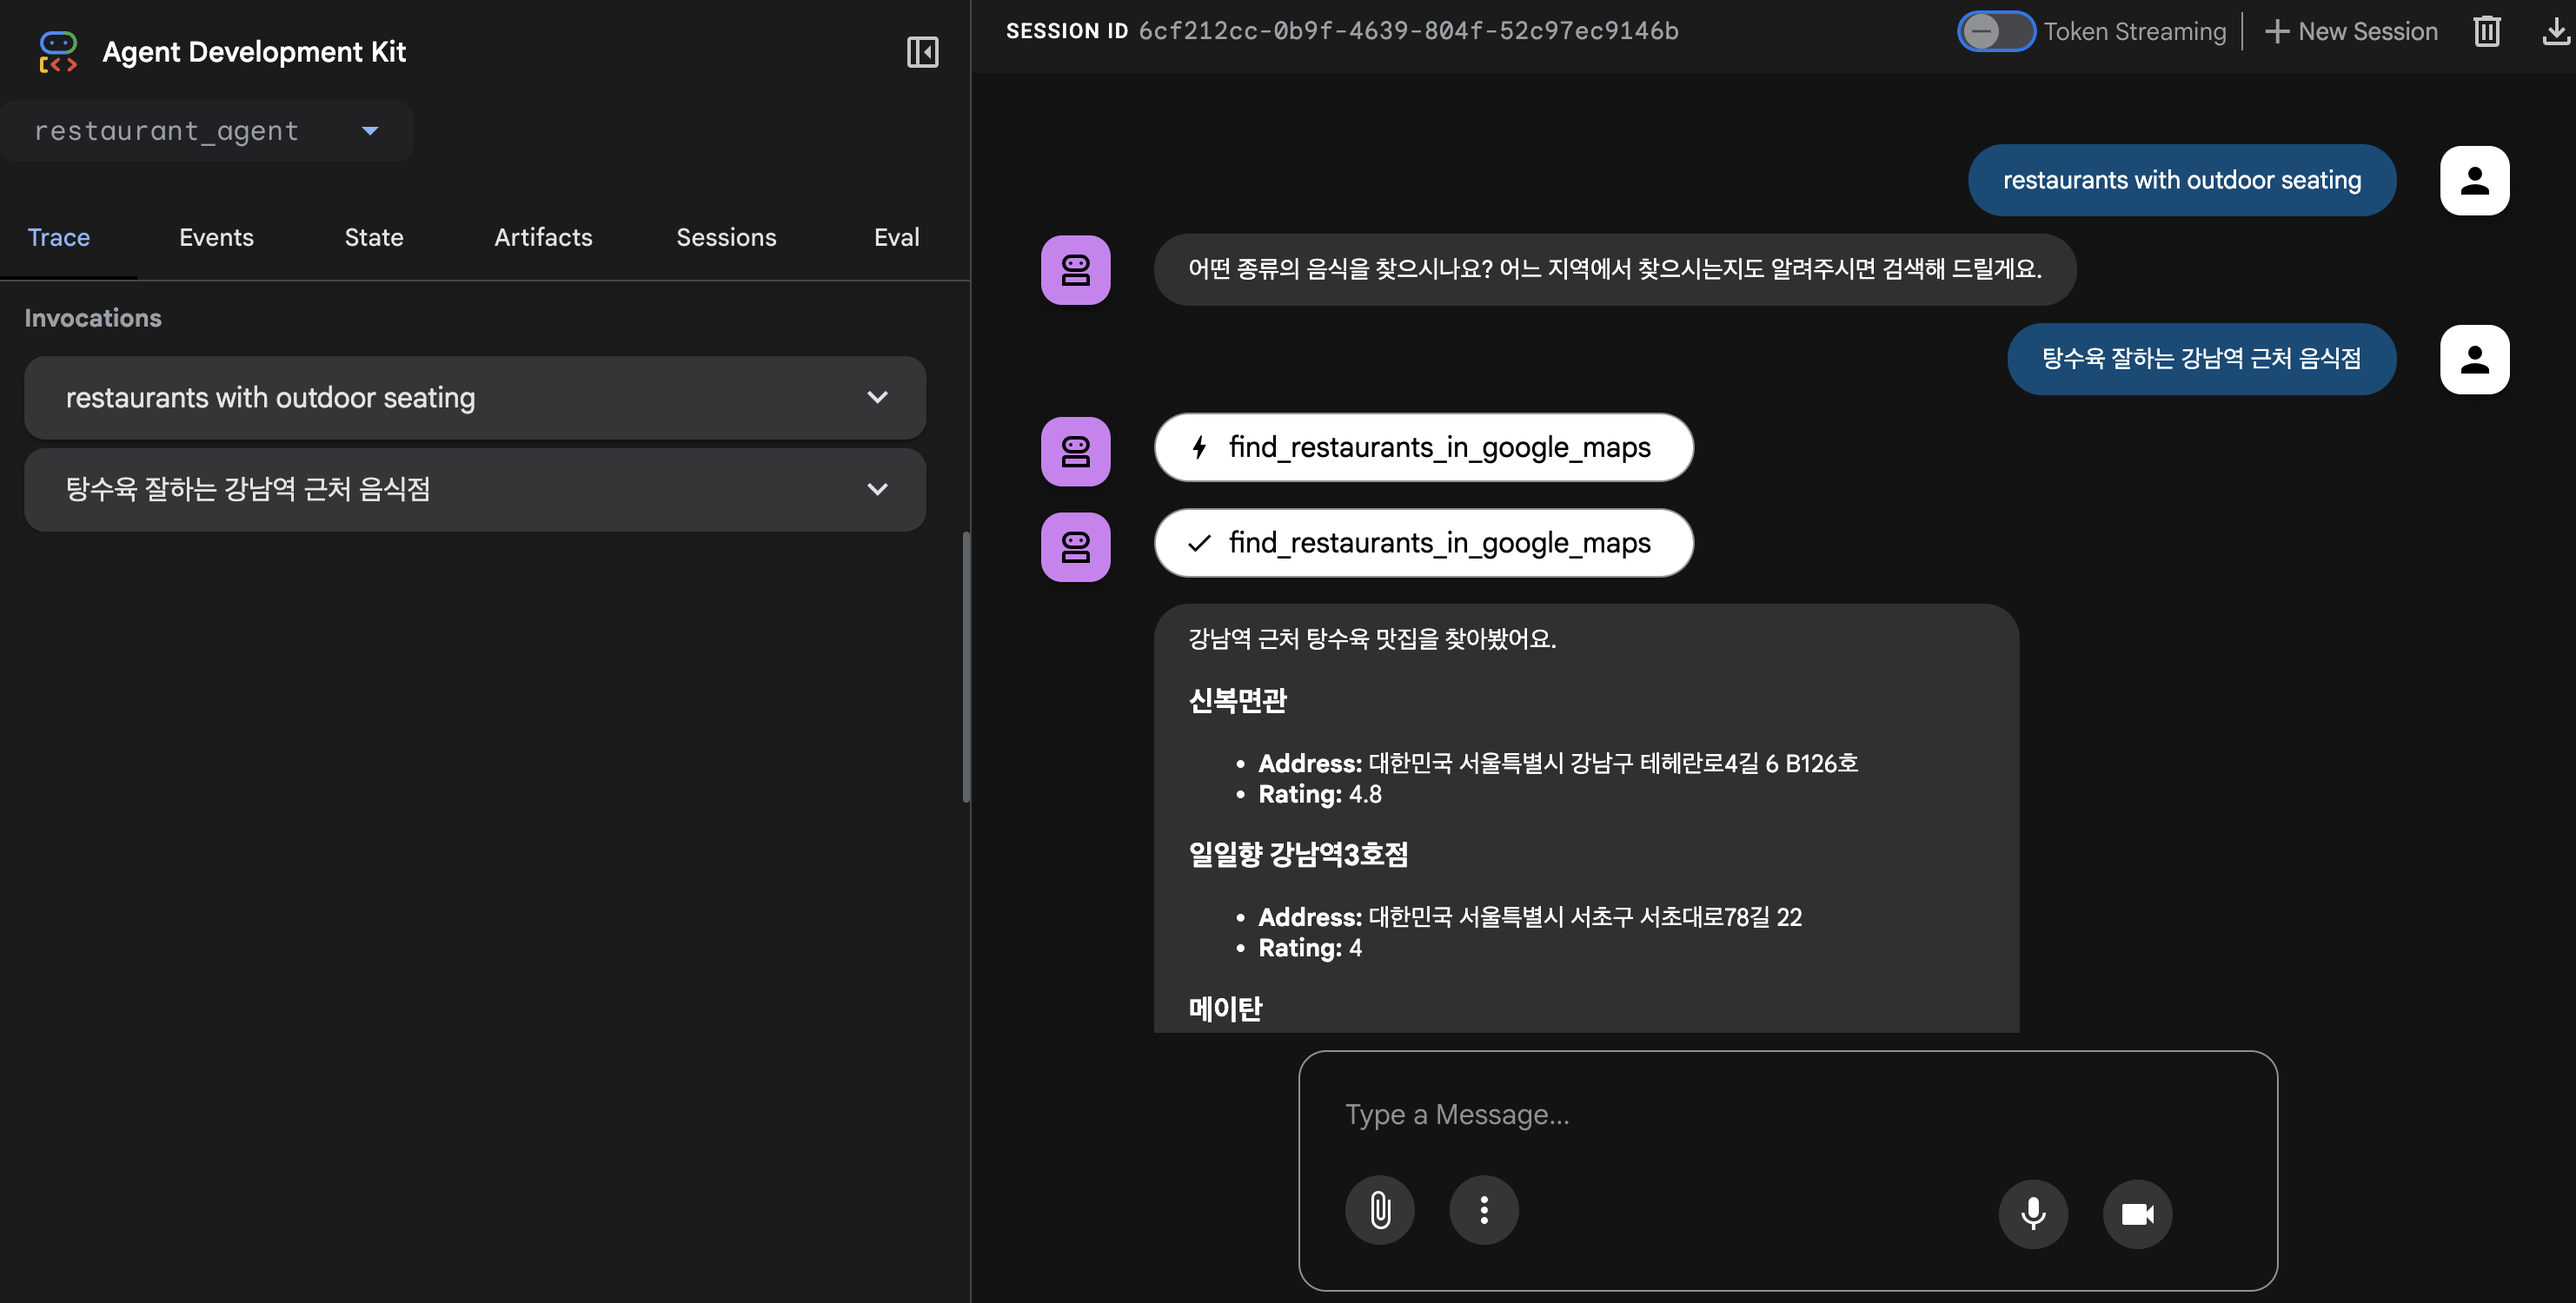
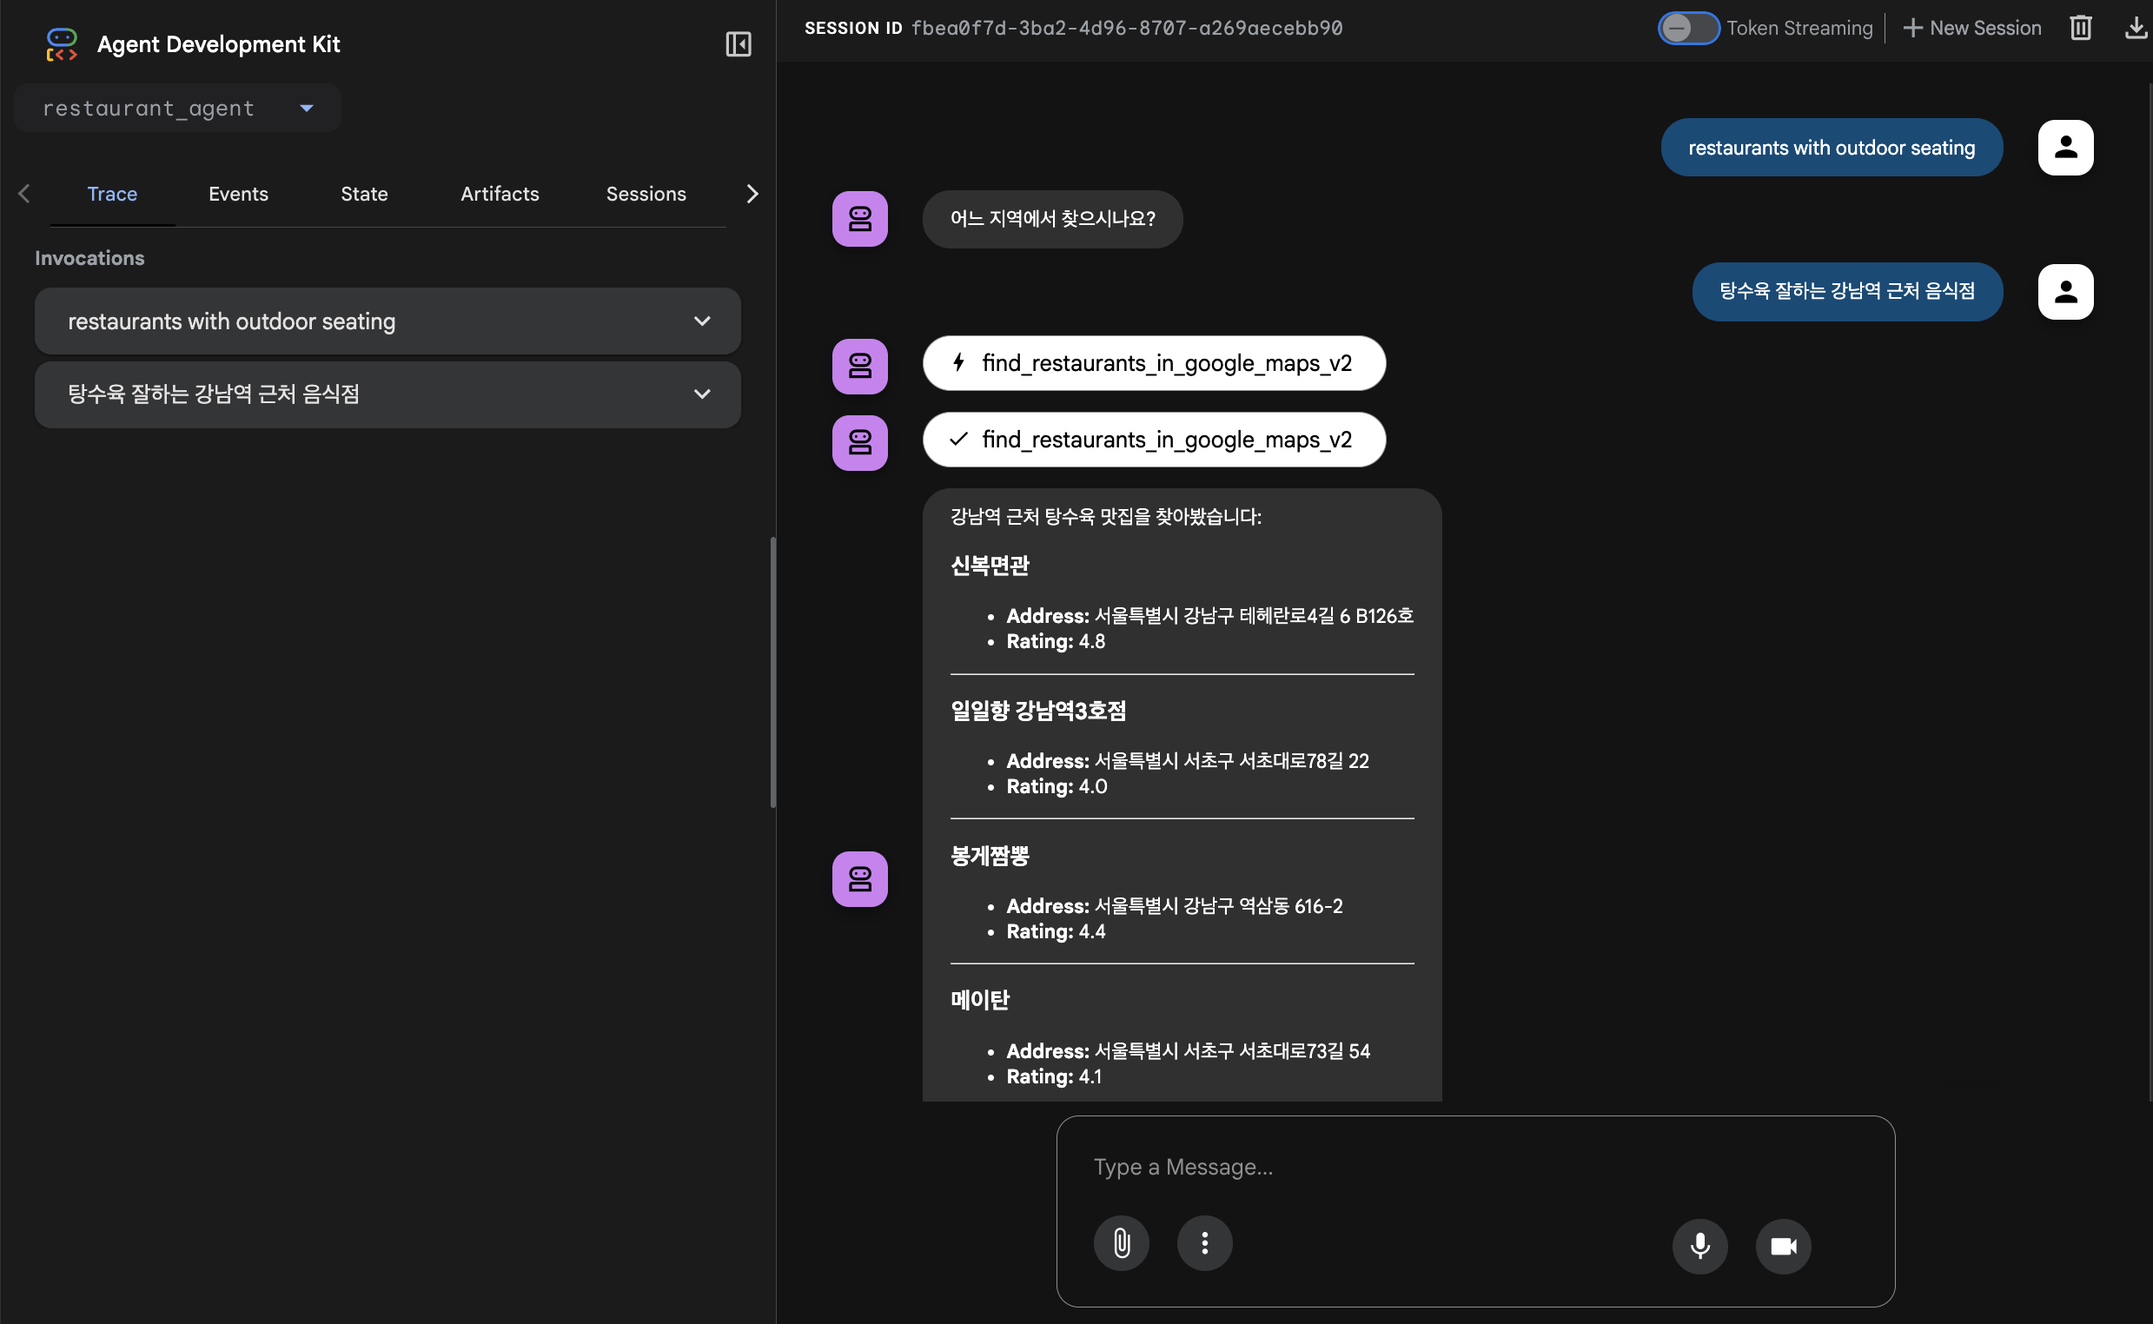
feat: Upgrade restaurant finder to use Places API v2
- Added a new function find_restaurants_in_google_maps_v2 to tools.py to utilize the new Google Maps Places API v2.
- Updated the find_restaurants tool to use the new v2 function by default.
- The legacy v1 function is kept for reference.
- Updated requirements.txt with comments for the new but currently unused v2 client library packages.

diff --git a/restaurant-finder/restaurant_agent/tools.py b/restaurant-finder/restaurant_agent/tools.py
@@ -6,10 +6,11 @@ import os
 import json
 import googlemaps
 from google.adk.tools import LongRunningFunctionTool
+from google.maps import places_v1
 
 def find_restaurants_in_google_maps(query: str) -> str:
   """
-  Finds restaurants based on a user's query, which should include the food and location.
+  Finds restaurants based on a user's query using the legacy Places API.
 
   Args:
     query: A search query string, e.g., "김치찌개 near 서울 강남역" or "아보카도 샐러드 in 판교".
@@ -45,4 +46,51 @@ def find_restaurants_in_google_maps(query: str) -> str:
     print(f"An error occurred: {e}")
     return json.dumps({"error": "An error occurred while searching for restaurants."})
 
-find_restaurants = LongRunningFunctionTool(func=find_restaurants_in_google_maps)
+def find_restaurants_in_google_maps_v2(query: str, language_code: str = "ko", region_code: str = "KR", max_results: int = 5) -> str:
+  """
+  Finds restaurants using the Places API (New) based on a user's query.
+
+  Args:
+    query: The user's search query (e.g., "restaurants with outdoor seating").
+    language_code: The language of the results.
+    region_code: The region to search in.
+    max_results: The maximum number of results to return.
+
+  Returns:
+    A JSON string containing a list of found restaurants or a message if none were found.
+  """
+  try:
+    client = places_v1.PlacesClient()
+
+    request = places_v1.SearchTextRequest(
+        text_query=query,
+        language_code=language_code,
+        region_code=region_code,
+        max_result_count=max_results,
+    )
+
+    # Define which fields to return for efficiency
+    field_mask = "places.rating,places.formattedAddress,places.displayName"
+
+    response = client.search_text(request=request, metadata=[("x-goog-fieldmask", field_mask)])
+
+    restaurants = []
+    for place in response.places:
+        restaurants.append({
+            "name": place.display_name.text,
+            "address": place.formatted_address,
+            "rating": place.rating if place.rating else 'N/A'
+        })
+
+    if restaurants:
+        return json.dumps(restaurants)
+    else:
+        return json.dumps({"message": "No restaurants found matching your criteria."})
+
+  except Exception as e:
+    print(f"An error occurred with Places API v2: {e}")
+    return json.dumps({"error": "An error occurred while searching for restaurants."})
+
+
+# find_restaurants = LongRunningFunctionTool(func=find_restaurants_in_google_maps)
+find_restaurants = LongRunningFunctionTool(func=find_restaurants_in_google_maps_v2)
